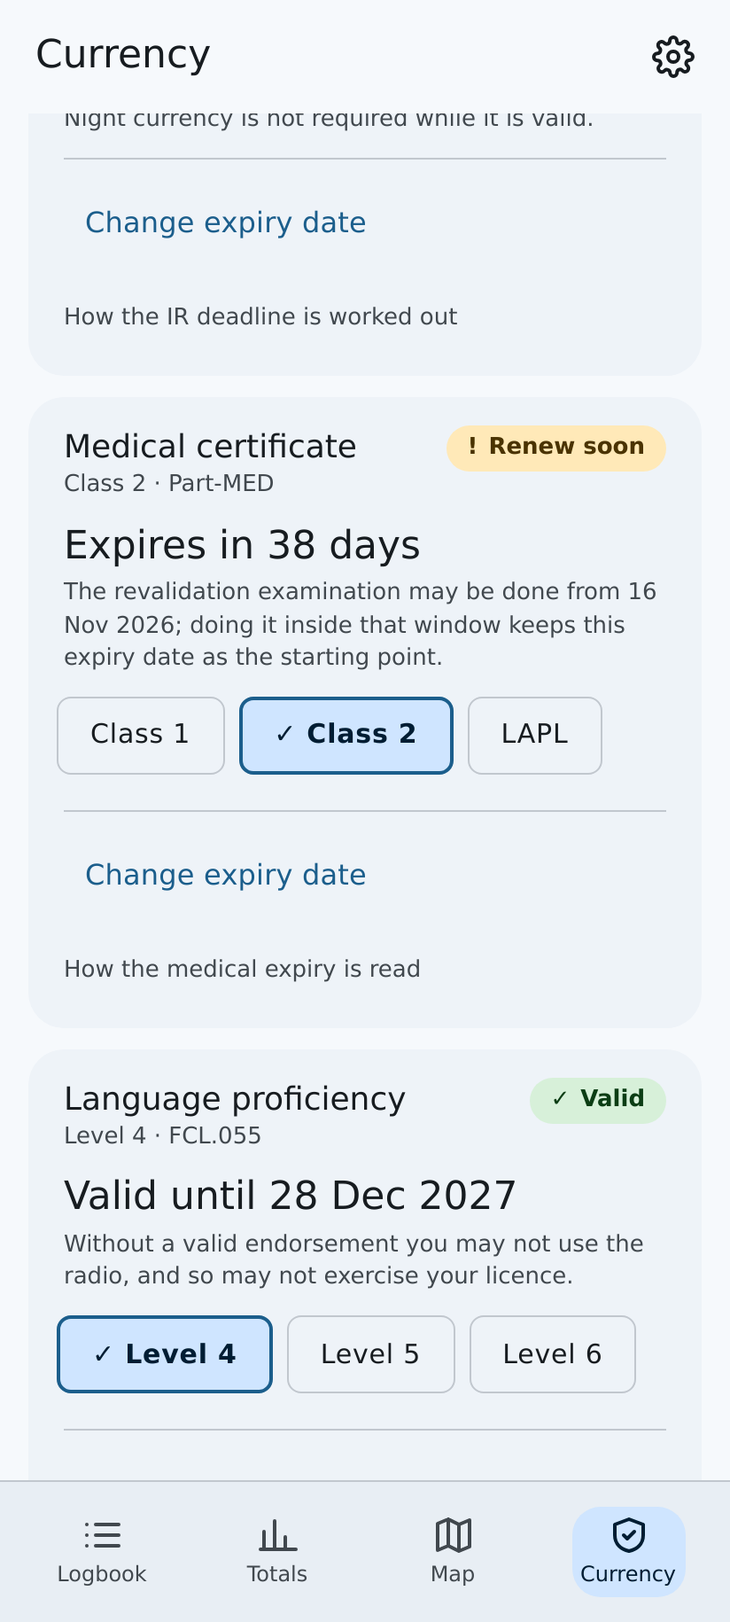
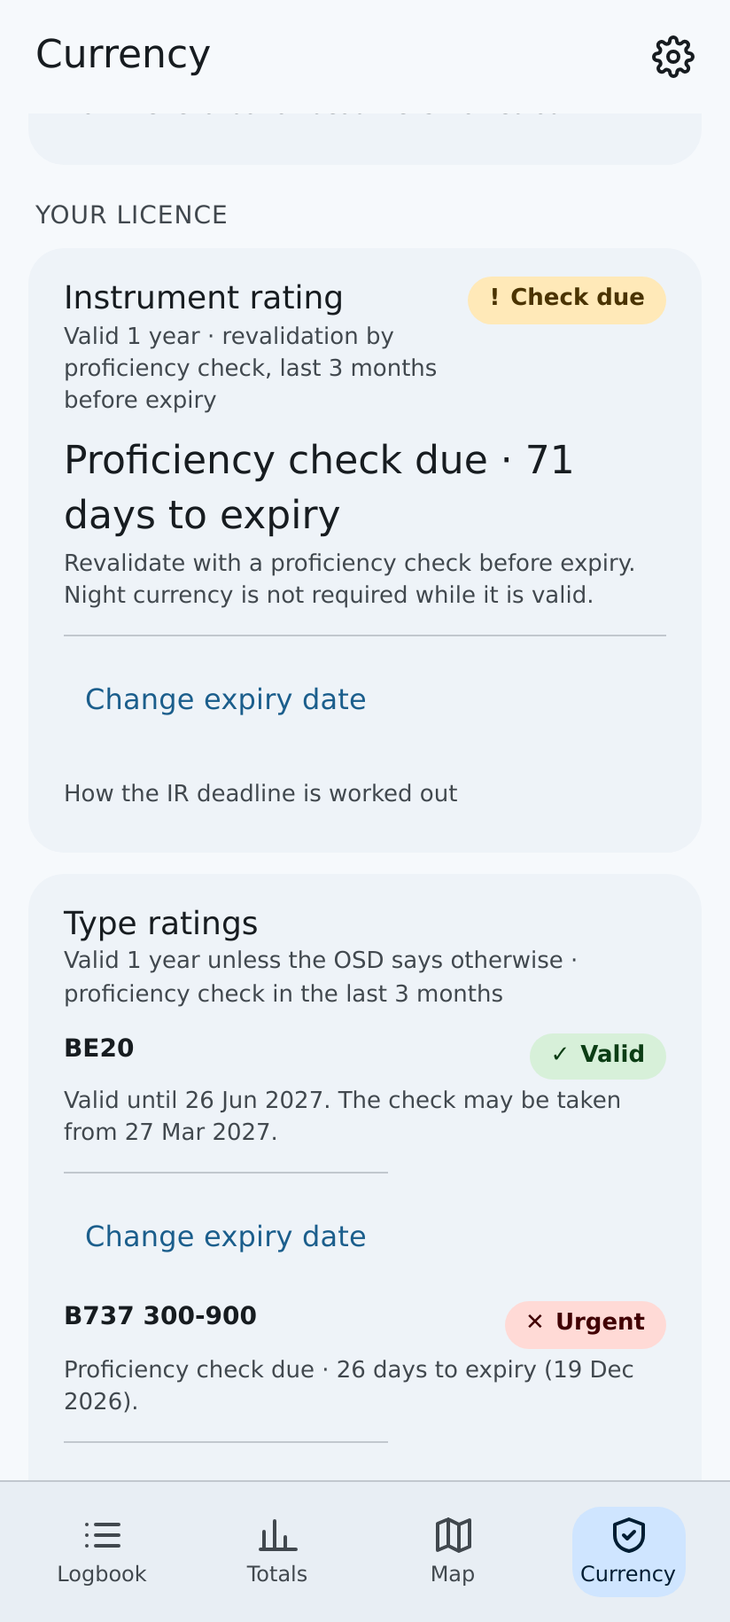
Track type ratings, the last rating the app showed nothing for
Selecting the Other class used to say "Revalidation is not tracked for the Other
class", which was the whole story for anyone type-rated. Now each type rating is
held as a name and an expiry date, with the same check window as the rest.

FCL.740.A(a) covers "multi-engine class ratings and type ratings" in one breath,
so the revalidation rule is the one already implemented for MEP and goes through
the same checkWindowStatus. FCL.740(a)(1) makes a type rating valid for 1 year
"unless otherwise determined in the OSD", which for many types it is -- so the
app never computes the date, it only reads the one from your licence, and the
card says why.

A list rather than another class, because a pilot may hold several at once and
each expires on its own date. They live under "Your licence" with the IR, the
medical and the language endorsement; the Other class now points there instead of
dead-ending.

Route sectors (FCL.740.A(a)(2)) are deliberately not counted, where they are for
MEP. The logbook records a make and model per flight, not which type rating they
fall under, and one rating can cover several models, so counting would mean
guessing which flights belong to which rating. The requirement is stated on the
card with the commercial-operator exemption in (a)(3), and a test asserts the
difference from MEP stays visible rather than quietly converging.

Alerts key each rating by id, so renaming one does not read as a new rating and
re-fire.
[…]

diff --git a/src/features/currency/CurrencyScreen.tsx b/src/features/currency/CurrencyScreen.tsx
@@ -1,9 +1,10 @@
 import { useMemo, useState, type ReactNode } from 'react';
 import { useApp } from '../../AppContext';
-import { CLASS_RATINGS, CLASS_RATING_LABELS, MEDICAL_CLASS_LABELS, type ClassRating, type IsoDate, type MedicalClass } from '../../domain/types';
-import { type ProficiencyCheck, type RollingCheck, type RollingCurrency, type SepCheck, type ValidityCheck, classExpiryOf, classExpiryPatch, irStatus, isExperienceClass, languageStatus, medicalStatus, nightCurrency, nightExemptByIr, routeSectors, passengerCurrency, proficiencyCheckStatus, sepRevalidation } from '../../domain/currency';
+import { CLASS_RATINGS, CLASS_RATING_LABELS, MEDICAL_CLASS_LABELS, type ClassRating, type IsoDate, type MedicalClass, type TypeRating } from '../../domain/types';
+import { type ProficiencyCheck, type RollingCheck, type RollingCurrency, type SepCheck, type ValidityCheck, classExpiryOf, classExpiryPatch, irStatus, isExperienceClass, languageStatus, medicalStatus, nightCurrency, nightExemptByIr, routeSectors, passengerCurrency, proficiencyCheckStatus, sepRevalidation, typeRatingStatus } from '../../domain/currency';
 import { DEFAULT_RULES, type RenewalRule, type RollingRule, type RuleSource } from '../../domain/rules';
 import { addDays, formatHHMM, isValidIsoDate, utcDateOf } from '../../domain/time';
+import { uuid } from '../../domain/id';
 import { Bar, Field, StatusPill } from '../../ui/components';
 import { formatShortDate } from '../flights/format';
 
@@ -91,8 +92,8 @@ function RenewalSteps({ rule = DEFAULT_RULES.renewal }: { rule?: RenewalRule }) 
 }
 
 /** Edit a rating's expiry date. `onSave(null)` clears it. */
-function ExpiryEditor({ id, current, forceOpen, onSave, label = 'Rating expiry date' }: {
-  id: string; current: string; forceOpen: boolean; label?: string;
+function ExpiryEditor({ id, current, forceOpen, onSave, label = 'Rating expiry date', removeLabel = 'Remove date' }: {
+  id: string; current: string; forceOpen: boolean; label?: string; removeLabel?: string;
   onSave: (date: IsoDate | null) => Promise<unknown>;
 }) {
   const { canEdit } = useApp();
@@ -114,7 +115,7 @@ function ExpiryEditor({ id, current, forceOpen, onSave, label = 'Rating expiry d
           <div className="row">
             <button type="button" className="btn tonal" onClick={() => void save()}>Save date</button>
             {editing && <button type="button" className="btn text" onClick={() => setEditing(false)}>Cancel</button>}
-            {current !== '' && <button type="button" className="btn text" onClick={() => { setDraft(''); void onSave(null).then(() => setEditing(false)); }}>Remove date</button>}
+            {current !== '' && <button type="button" className="btn text" onClick={() => { setDraft(''); void onSave(null).then(() => setEditing(false)); }}>{removeLabel}</button>}
           </div>
         </div>
       ) : (
@@ -351,6 +352,78 @@ function LanguageCard({ today }: { today: IsoDate }) {
   );
 }
 
+/**
+ * Type ratings. A list, not a single card: a pilot may hold several at once and each expires on its own
+ * date. Flights in a type-rated aeroplane are logged under the OTHER class, which is why nothing here
+ * is driven by the class chips.
+ */
+function TypeRatingsCard({ today }: { today: IsoDate }) {
+  const { data, canEdit, updateSettings } = useApp();
+  const ratings = data.settings.typeRatings ?? [];
+  const [adding, setAdding] = useState(false);
+  const [name, setName] = useState('');
+  const [date, setDate] = useState('');
+  if (ratings.length === 0 && !canEdit) return null;
+
+  const save = (next: TypeRating[]) => updateSettings({ typeRatings: next });
+  const add = async () => {
+    if (name.trim() === '' || !isValidIsoDate(date)) return;
+    await save([...ratings, { id: uuid(), name: name.trim(), expiry: date }]);
+    setName(''); setDate(''); setAdding(false);
+  };
+
+  return (
+    <div className="card cur-card">
+      <div className="head"><div><h3>Type ratings</h3><div className="hint">Valid 1 year unless the OSD says otherwise · proficiency check in the last 3 months</div></div></div>
+      {ratings.length === 0 && <div className="hint">None added. Add one for each type rating on your licence.</div>}
+      {ratings.map((t) => {
+        const c = typeRatingStatus(t.expiry, today);
+        const days = c.daysToExpiry ?? 0;
+        const label = { green: 'Valid', amber: 'Check due', red: c.state === 'expired' ? 'Expired' : 'Urgent', unknown: 'Not set' }[c.status];
+        return (
+          <div key={t.id} className="progress-row">
+            <div className="line">
+              <span><strong>{t.name}</strong></span>
+              <StatusPill status={c.status} label={label} />
+            </div>
+            <div className="hint">
+              {c.state === 'expired' ? `Expired on ${formatShortDate(t.expiry)} — it has to be renewed.`
+                : c.state === 'window-not-open' ? `Valid until ${formatShortDate(t.expiry)}. The check may be taken from ${c.windowStart ? formatShortDate(c.windowStart) : ''}.`
+                : `Proficiency check due · ${days} day${days === 1 ? '' : 's'} to expiry (${formatShortDate(t.expiry)}).`}
+            </div>
+            {canEdit && (
+              <div className="row">
+                {/* clearing a type rating's date removes the rating itself, so the button has to say so */}
+                <ExpiryEditor id={`expiry-type-${t.id}`} label={`${t.name} expiry date`} removeLabel="Remove rating" forceOpen={false} current={t.expiry}
+                  onSave={(d) => (d === null
+                    ? save(ratings.filter((r) => r.id !== t.id))
+                    : save(ratings.map((r) => (r.id === t.id ? { ...r, expiry: d } : r))))} />
+              </div>
+            )}
+          </div>
+        );
+      })}
+      {canEdit && (adding ? (
+        <div className="sub-form">
+          <Field label="Type rating, as written on your licence" htmlFor="type-name">
+            <input id="type-name" className="input" value={name} onChange={(e) => setName(e.target.value)} placeholder="B737 300-900" autoComplete="off" />
+          </Field>
+          <Field label="Expiry date" htmlFor="type-date">
+            <input id="type-date" className="input" type="date" value={date} onChange={(e) => setDate(e.target.value)} />
+          </Field>
+          <div className="row">
+            <button type="button" className="btn tonal" onClick={() => void add()}>Add</button>
+            <button type="button" className="btn text" onClick={() => { setAdding(false); setName(''); setDate(''); }}>Cancel</button>
+          </div>
+        </div>
+      ) : (
+        <div className="sub-form"><button type="button" className="btn text" onClick={() => setAdding(true)}>Add a type rating</button></div>
+      ))}
+      <RulesNote rule={DEFAULT_RULES.typeRating} title="How a type rating deadline is worked out" />
+    </div>
+  );
+}
+
 export function CurrencyScreen() {
   const { data } = useApp();
   const today: IsoDate = utcDateOf(Date.now());
@@ -379,12 +452,13 @@ export function CurrencyScreen() {
       <RollingCard title="Carrying passengers" subtitle={`${CLASS_RATING_LABELS[cls]} · ${rollingSubtitle(DEFAULT_RULES.passenger)}`} check={passengers} rule={DEFAULT_RULES.passenger} />
       <RollingCard title="Passengers at night" subtitle={`${CLASS_RATING_LABELS[cls]} · ${rollingSubtitle(DEFAULT_RULES.night, 'night ')}`} check={night} rule={DEFAULT_RULES.night} exemptUntil={nightExempt} />
       {isExperienceClass(cls) ? <ExperienceCard cls={cls} check={experience} />
-        : cls === 'OTHER' ? <p className="hint" style={{ margin: '0 4px 12px' }}>Revalidation is not tracked for the Other class.</p>
+        : cls === 'OTHER' ? <p className="hint" style={{ margin: '0 4px 12px' }}>Flights in a type-rated aeroplane are logged here. The ratings themselves are tracked under <strong>Your licence</strong> below, because one pilot may hold several.</p>
         : <CheckCard cls={cls} check={check} />}
 
       {/* Not class ratings: held once, and they apply whatever you are flying. */}
       <h2 className="section-label">Your licence</h2>
       <IrCard today={today} />
+      <TypeRatingsCard today={today} />
       <MedicalCard today={today} />
       <LanguageCard today={today} />
     </div>

diff --git a/src/db/importer.ts b/src/db/importer.ts
@@ -2,7 +2,7 @@ import type { LogbookDB } from './db';
 import type { ConflictPolicy, ImportPlan } from '../domain/importPlan';
 import type { FlightImport, ImportBundle } from '../domain/records';
 import { aircraftFromFlight, toFlightImports } from '../domain/records';
-import type { Aircraft, Attachment, ClassRating, Flight, IsoDate, MedicalClass, Person, Settings } from '../domain/types';
+import type { Aircraft, Attachment, ClassRating, Flight, IsoDate, MedicalClass, Person, Settings, TypeRating } from '../domain/types';
 import { personKey } from '../domain/suggestions';
 import { uuid } from '../domain/id';
 import { type Snapshot, base64ToBytes, snapshotToBundle } from '../domain/snapshot';
@@ -15,7 +15,7 @@ export async function readBundle(db: LogbookDB): Promise<ImportBundle> {
 
 export interface ImportExtras {
   attachments?: Attachment[];
-  settings?: { pilotName?: string; licenceNumber?: string; address?: string; sepLandExpiry?: string | null; classExpiry?: Partial<Record<ClassRating, IsoDate>>; irExpiry?: IsoDate | null; medicalClass?: MedicalClass | null; medicalExpiry?: IsoDate | null; languageLevel?: 4 | 5 | 6 | null; languageExpiry?: IsoDate | null };
+  settings?: { pilotName?: string; licenceNumber?: string; address?: string; sepLandExpiry?: string | null; classExpiry?: Partial<Record<ClassRating, IsoDate>>; irExpiry?: IsoDate | null; medicalClass?: MedicalClass | null; medicalExpiry?: IsoDate | null; languageLevel?: 4 | 5 | 6 | null; languageExpiry?: IsoDate | null; typeRatings?: TypeRating[] };
 }
 
 export interface ImportResult {
@@ -80,6 +80,7 @@ export async function applyImport(db: LogbookDB, plan: ImportPlan, policy: Confl
         if (extras.settings.medicalExpiry && !cur.medicalExpiry) { patch.medicalExpiry = extras.settings.medicalExpiry; patch.medicalClass = extras.settings.medicalClass ?? null; result.settingsApplied.push('medicalExpiry'); }
         if (extras.settings.languageExpiry && !cur.languageExpiry) { patch.languageExpiry = extras.settings.languageExpiry; result.settingsApplied.push('languageExpiry'); }
         if (extras.settings.languageLevel && !cur.languageLevel) { patch.languageLevel = extras.settings.languageLevel; result.settingsApplied.push('languageLevel'); }
+        if (extras.settings.typeRatings?.length && !cur.typeRatings?.length) { patch.typeRatings = extras.settings.typeRatings; result.settingsApplied.push('typeRatings'); }
         const missing = Object.entries(extras.settings.classExpiry ?? {}).filter(([k, v]) => v && !cur.classExpiry?.[k as ClassRating]);
         if (missing.length > 0) { patch.classExpiry = { ...(cur.classExpiry ?? {}), ...Object.fromEntries(missing) }; result.settingsApplied.push('classExpiry'); }
         if (Object.keys(patch).length > 0) await db.settings.put({ ...cur, ...patch });
@@ -114,7 +115,7 @@ export async function applyReplace(db: LogbookDB, snapshot: Snapshot): Promise<{
     await db.previousExperience.bulkAdd(snapshot.previousExperience);
     await db.attachments.bulkAdd(snapshot.attachments.map((a) => ({ id: a.id, flightId: a.flightId, mime: a.mime, name: a.name, createdAt: a.createdAt, updatedAt: a.updatedAt, blob: new Blob([base64ToBytes(a.data) as BlobPart], { type: a.mime }) })));
     const cur = await db.settings.get('main');
-    if (cur) await db.settings.put({ ...cur, pilotName: snapshot.settings.pilotName ?? cur.pilotName, licenceNumber: snapshot.settings.licenceNumber ?? cur.licenceNumber, address: snapshot.settings.address ?? cur.address, sepLandExpiry: snapshot.settings.sepLandExpiry ?? null, classExpiry: snapshot.settings.classExpiry ?? {}, irExpiry: snapshot.settings.irExpiry ?? null, medicalClass: snapshot.settings.medicalClass ?? null, medicalExpiry: snapshot.settings.medicalExpiry ?? null, languageLevel: snapshot.settings.languageLevel ?? null, languageExpiry: snapshot.settings.languageExpiry ?? null });
+    if (cur) await db.settings.put({ ...cur, pilotName: snapshot.settings.pilotName ?? cur.pilotName, licenceNumber: snapshot.settings.licenceNumber ?? cur.licenceNumber, address: snapshot.settings.address ?? cur.address, sepLandExpiry: snapshot.settings.sepLandExpiry ?? null, classExpiry: snapshot.settings.classExpiry ?? {}, irExpiry: snapshot.settings.irExpiry ?? null, medicalClass: snapshot.settings.medicalClass ?? null, medicalExpiry: snapshot.settings.medicalExpiry ?? null, languageLevel: snapshot.settings.languageLevel ?? null, languageExpiry: snapshot.settings.languageExpiry ?? null, typeRatings: snapshot.settings.typeRatings ?? [] });
     return { flights: bundle.flights.length, fstd: bundle.fstd.length, experience: bundle.experience.length };
   });
 }

diff --git a/src/domain/alerts.ts b/src/domain/alerts.ts
@@ -1,6 +1,6 @@
-import type { AlertLevel, ClassRating, Flight, IsoDate } from './types';
+import type { AlertLevel, ClassRating, Flight, IsoDate, TypeRating } from './types';
 import { CLASS_RATINGS, CLASS_RATING_LABELS } from './types';
-import { classExpiryOf, irStatus, isExperienceClass, languageStatus, medicalStatus, nightCurrency, nightExemptByIr, passengerCurrency, proficiencyCheckStatus, sepRevalidation, type RollingCheck } from './currency';
+import { classExpiryOf, irStatus, isExperienceClass, languageStatus, medicalStatus, nightCurrency, nightExemptByIr, passengerCurrency, proficiencyCheckStatus, sepRevalidation, typeRatingStatus, type RollingCheck } from './currency';
 import { DEFAULT_RULES, type Rules } from './rules';
 import { formatShortDate } from '../features/flights/format';
 
@@ -27,6 +27,7 @@ export interface AlertSettings {
   medicalExpiry?: IsoDate | null;
   languageLevel?: 4 | 5 | 6 | null;
   languageExpiry?: IsoDate | null;
+  typeRatings?: TypeRating[];
   alerts?: { enabled: boolean; night: boolean };
 }
 
@@ -73,6 +74,18 @@ function irItem(expiry: IsoDate, today: IsoDate, rules: Rules): AlertItem {
   if (c.state === 'urgent') return { key, level: 'red', title: `Instrument rating: ${plural(days, 'day')} left`, body: `Book the proficiency check with an examiner now. Expires ${date}.` };
   if (c.state === 'window-open') return { key, level: 'amber', title: 'Instrument rating: check due', body: `The check window is open; the rating expires in ${plural(days, 'day')} (${date}).` };
   return { key, level: 'green', title: 'Instrument rating ok', body: `Valid until ${date}.` };
+}
+
+/** One type rating. Keyed by its id, so renaming it does not look like a different rating. */
+function typeRatingItem(t: TypeRating, today: IsoDate, rules: Rules): AlertItem {
+  const key = `TYPE:${t.id}`;
+  const date = formatShortDate(t.expiry);
+  const c = typeRatingStatus(t.expiry, today, rules);
+  const days = c.daysToExpiry ?? 0;
+  if (c.state === 'expired') return { key, level: 'expired', title: `${t.name} type rating expired`, body: `Expired on ${date}. It has to be renewed.` };
+  if (c.state === 'urgent') return { key, level: 'red', title: `${t.name}: ${plural(days, 'day')} left`, body: `Book the proficiency check now. Expires ${date}.` };
+  if (c.state === 'window-open') return { key, level: 'amber', title: `${t.name}: proficiency check due`, body: `The check window is open; the rating expires in ${plural(days, 'day')} (${date}).` };
+  return { key, level: 'green', title: `${t.name} type rating ok`, body: `Valid until ${date}.` };
 }
 
 /**
@@ -122,6 +135,7 @@ export function watchedItems(flights: Flight[], settings: AlertSettings, today: 
     if (expiry) items.push(ratingItem(cls, flights, expiry, today, rules));
   }
   if (settings.irExpiry) items.push(irItem(settings.irExpiry, today, rules));
+  for (const t of settings.typeRatings ?? []) items.push(typeRatingItem(t, today, rules));
   items.push(...licenceItems(settings, today, rules));
   return items;
 }

diff --git a/src/domain/rules.ts b/src/domain/rules.ts
@@ -171,6 +171,23 @@ export const IR_RENEWAL: RenewalRule = {
 };
 
 /**
+ * Type ratings. FCL.740.A(a) covers "multi-engine class ratings AND type ratings" in one breath, so the
+ * revalidation rule is the one already used for MEP; only the validity period and the route-sector
+ * counting differ in what the app can do about them.
+ */
+export const TYPE_RATING: ProficiencyRule = {
+  windowMonths: 3,
+  reference: 'Part-FCL FCL.740.A(a)(1): pass a proficiency check in accordance with Appendix 9, or complete an EBT practical assessment in accordance with Appendix 10, in the relevant type of aeroplane or an FSTD representing it, within the 3 months immediately preceding the expiry date. FCL.740(a)(1): a type rating is valid for 1 year unless the operational suitability data says otherwise.',
+  verified: true,
+  todo: [
+    'Validity is 1 year "unless otherwise determined in the OSD" (FCL.740(a)(1)), and for many types the OSD does determine otherwise. Enter the expiry date from your licence; the app never works it out.',
+    'Limit: FCL.740.A(a)(2) also asks for 10 route sectors in the type during the validity period, or 1 flown with an examiner. The app does not count them: the logbook records a make and model per flight, not which type rating they fall under, and one rating can cover several models. The counter shown for MEP is not shown here for that reason.',
+    'A pilot flying for a commercial air transport operator who passes the operator proficiency check combined with the revalidation check is exempt from the route sectors (FCL.740.A(a)(3)).',
+    'If you fail a section of the check before expiry you may not use the rating until you have passed it (FCL.740.A(c)). An expired type rating is renewed under FCL.740(b), the same steps as a class rating.',
+  ],
+};
+
+/**
  * Medical certificate (Annex IV, Part-MED). The app stores the expiry date printed on the certificate
  * and never computes it: the validity period depends on the class and on your age, and the age bands
  * have edges the app could not get right without knowing your date of birth, which it deliberately
@@ -264,6 +281,7 @@ export interface Rules {
   sep: SepRule;
   ir: ProficiencyRule;
   irRenewal: RenewalRule;
+  typeRating: ProficiencyRule;
   medical: MedicalRule;
   language: LanguageRule;
   proficiencyCheck: ProficiencyRule;
@@ -278,6 +296,7 @@ export const DEFAULT_RULES: Rules = {
   sep: SEP_REVALIDATION,
   ir: IR_REVALIDATION,
   irRenewal: IR_RENEWAL,
+  typeRating: TYPE_RATING,
   medical: MEDICAL,
   language: LANGUAGE_PROFICIENCY,
   proficiencyCheck: PROFICIENCY_CHECK_REVALIDATION,

diff --git a/src/App.tsx b/src/App.tsx
@@ -101,7 +101,7 @@ export function App() {
       flights: newestFirst(viewerRecords?.flights ?? []),
       aircraft: viewerSnap?.aircraft ?? [], persons: viewerSnap?.persons ?? [],
       fstd: viewerRecords?.fstd ?? [], previousExperience: viewerRecords?.experience ?? [],
-      settings: { ...local.settings, pilotName: viewerSnap?.settings.pilotName ?? local.settings.pilotName, licenceNumber: viewerSnap?.settings.licenceNumber ?? local.settings.licenceNumber, address: viewerSnap?.settings.address ?? local.settings.address, sepLandExpiry: viewerSnap ? viewerSnap.settings.sepLandExpiry ?? null : local.settings.sepLandExpiry, classExpiry: viewerSnap ? viewerSnap.settings.classExpiry ?? {} : local.settings.classExpiry, irExpiry: viewerSnap ? viewerSnap.settings.irExpiry ?? null : local.settings.irExpiry, medicalClass: viewerSnap ? viewerSnap.settings.medicalClass ?? null : local.settings.medicalClass, medicalExpiry: viewerSnap ? viewerSnap.settings.medicalExpiry ?? null : local.settings.medicalExpiry, languageLevel: viewerSnap ? viewerSnap.settings.languageLevel ?? null : local.settings.languageLevel, languageExpiry: viewerSnap ? viewerSnap.settings.languageExpiry ?? null : local.settings.languageExpiry },
+      settings: { ...local.settings, pilotName: viewerSnap?.settings.pilotName ?? local.settings.pilotName, licenceNumber: viewerSnap?.settings.licenceNumber ?? local.settings.licenceNumber, address: viewerSnap?.settings.address ?? local.settings.address, sepLandExpiry: viewerSnap ? viewerSnap.settings.sepLandExpiry ?? null : local.settings.sepLandExpiry, classExpiry: viewerSnap ? viewerSnap.settings.classExpiry ?? {} : local.settings.classExpiry, irExpiry: viewerSnap ? viewerSnap.settings.irExpiry ?? null : local.settings.irExpiry, medicalClass: viewerSnap ? viewerSnap.settings.medicalClass ?? null : local.settings.medicalClass, medicalExpiry: viewerSnap ? viewerSnap.settings.medicalExpiry ?? null : local.settings.medicalExpiry, languageLevel: viewerSnap ? viewerSnap.settings.languageLevel ?? null : local.settings.languageLevel, languageExpiry: viewerSnap ? viewerSnap.settings.languageExpiry ?? null : local.settings.languageExpiry, typeRatings: viewerSnap ? viewerSnap.settings.typeRatings ?? [] : local.settings.typeRatings },
     };
   }, [local, viewerRecords, viewerSnap]);
 

diff --git a/src/domain/currency.test.ts b/src/domain/currency.test.ts
@@ -1,5 +1,5 @@
 import { describe, expect, it } from 'vitest';
-import { classExpiryOf, classExpiryPatch, collectEvents, irStatus, languageStatus, medicalStatus, nightCurrency, nightExemptByIr, passengerCurrency, proficiencyCheckStatus, rolling, routeSectors, sepRevalidation } from './currency';
+import { classExpiryOf, classExpiryPatch, collectEvents, irStatus, languageStatus, medicalStatus, nightCurrency, nightExemptByIr, passengerCurrency, proficiencyCheckStatus, rolling, routeSectors, sepRevalidation, typeRatingStatus } from './currency';
 import { DEFAULT_RULES } from './rules';
 import { flight } from './testFactories';
 import { addDays } from './time';
@@ -285,5 +285,19 @@ describe('language proficiency (FCL.055)', () => {
   });
   it('is not-set without a level or a date', () => {
     expect(languageStatus(null, null, '2026-01-01')).toMatchObject({ state: 'not-set' });
+  });
+});
+
+describe('type ratings (FCL.740.A(a))', () => {
+  const expiry = '2026-03-31';
+  it('uses the same 3-month check window as a multi-engine class rating', () => {
+    expect(typeRatingStatus(expiry, '2026-01-01')).toEqual(proficiencyCheckStatus(expiry, '2026-01-01'));
+    expect(typeRatingStatus(expiry, '2025-12-31')).toMatchObject({ state: 'window-not-open', windowStart: '2026-01-01' });
+    expect(typeRatingStatus(expiry, '2026-04-01')).toMatchObject({ status: 'red', state: 'expired' });
+  });
+  it('says plainly that route sectors are not counted for a type rating', () => {
+    expect(DEFAULT_RULES.typeRating.todo.join(' ')).toMatch(/does not count them/i);
+    // ...whereas they are counted for MEP, and that difference must stay visible
+    expect(routeSectors([], 'MEP_LAND', expiry, '2026-01-01')).not.toBeNull();
   });
 });

diff --git a/src/domain/alerts.test.ts b/src/domain/alerts.test.ts
@@ -92,3 +92,23 @@ describe('licence documents in the alerts', () => {
     expect(watchedItems([], { languageLevel: 4, languageExpiry: '2025-06-01' }, today).map((i) => i.key)).toContain('LANGUAGE');
   });
 });
+
+describe('type ratings in the alerts', () => {
+  const t = (id: string, name: string, expiry: string) => ({ id, name, expiry });
+  it('watches one item per rating, keyed by id so a rename is not a new rating', () => {
+    const items = watchedItems([], { typeRatings: [t('a', 'B737 300-900', '2025-08-15'), t('b', 'BE20', '2027-01-01')] }, today);
+    expect(items.map((i) => i.key)).toEqual(expect.arrayContaining(['TYPE:a', 'TYPE:b']));
+    expect(items.find((i) => i.key === 'TYPE:a')!.level).toBe('amber');
+    expect(items.find((i) => i.key === 'TYPE:b')!.level).toBe('green');
+    const renamed = watchedItems([], { typeRatings: [t('a', 'Boeing 737', '2025-08-15')] }, today);
+    expect(renamed[0]!.key).toBe('TYPE:a'); // same key, so the alert does not re-fire
+  });
+  it('names the rating in the alert, so several are tellable apart', () => {
+    const i = watchedItems([], { typeRatings: [t('a', 'BE20', '2025-06-01')] }, today)[0]!;
+    expect(i.level).toBe('expired');
+    expect(i.title).toContain('BE20');
+  });
+  it('watches nothing when none are held', () => {
+    expect(watchedItems([], { typeRatings: [] }, today).map((i) => i.key)).not.toContain('TYPE:a');
+  });
+});

diff --git a/src/domain/snapshot.ts b/src/domain/snapshot.ts
@@ -1,4 +1,4 @@
-import type { Aircraft, ClassRating, Flight, FstdSession, IsoDate, MedicalClass, Person, PreviousExperience } from './types';
+import type { Aircraft, ClassRating, Flight, FstdSession, IsoDate, MedicalClass, Person, PreviousExperience, TypeRating } from './types';
 import { type FlightImport, type ImportBundle, toFlightImport, validateFlightImport } from './records';
 import { validateExperience } from './experience';
 import { validateFstd } from './fstd';
@@ -33,7 +33,7 @@ export interface Snapshot {
   /** Device that wrote the snapshot (optional: older snapshots do not have it). */
   deviceId?: string;
   deviceName: string;
-  settings: { pilotName?: string; licenceNumber?: string; address?: string; sepLandExpiry?: IsoDate | null; classExpiry?: Partial<Record<ClassRating, IsoDate>>; irExpiry?: IsoDate | null; medicalClass?: MedicalClass | null; medicalExpiry?: IsoDate | null; languageLevel?: 4 | 5 | 6 | null; languageExpiry?: IsoDate | null };
+  settings: { pilotName?: string; licenceNumber?: string; address?: string; sepLandExpiry?: IsoDate | null; classExpiry?: Partial<Record<ClassRating, IsoDate>>; irExpiry?: IsoDate | null; medicalClass?: MedicalClass | null; medicalExpiry?: IsoDate | null; languageLevel?: 4 | 5 | 6 | null; languageExpiry?: IsoDate | null; typeRatings?: TypeRating[] };
   aircraft: Aircraft[];
   persons: Person[];
   flights: Flight[];

diff --git a/src/features/export/backup.ts b/src/features/export/backup.ts
@@ -11,7 +11,7 @@ export async function snapshotFromDb(db: LogbookDB, exportedAt = new Date().toIS
     exportedAt,
     deviceId: settings?.deviceId,
     deviceName: settings?.deviceName ?? '',
-    settings: { pilotName: settings?.pilotName, licenceNumber: settings?.licenceNumber, address: settings?.address, sepLandExpiry: settings?.sepLandExpiry ?? null, classExpiry: settings?.classExpiry, irExpiry: settings?.irExpiry ?? null, medicalClass: settings?.medicalClass ?? null, medicalExpiry: settings?.medicalExpiry ?? null, languageLevel: settings?.languageLevel ?? null, languageExpiry: settings?.languageExpiry ?? null },
+    settings: { pilotName: settings?.pilotName, licenceNumber: settings?.licenceNumber, address: settings?.address, sepLandExpiry: settings?.sepLandExpiry ?? null, classExpiry: settings?.classExpiry, irExpiry: settings?.irExpiry ?? null, medicalClass: settings?.medicalClass ?? null, medicalExpiry: settings?.medicalExpiry ?? null, languageLevel: settings?.languageLevel ?? null, languageExpiry: settings?.languageExpiry ?? null, typeRatings: settings?.typeRatings ?? [] },
     aircraft, persons, flights, fstdSessions, previousExperience,
     attachments: await Promise.all(attachments.map(async ({ blob, ...a }) => ({ ...a, data: bytesToBase64(new Uint8Array(await blob.arrayBuffer())) }))),
   });

diff --git a/src/domain/types.ts b/src/domain/types.ts
@@ -258,6 +258,18 @@ export interface Airport {
 
 export type ThemePreference = 'system' | 'light' | 'dark';
 
+/**
+ * A type rating the pilot holds. Type ratings are not classes: a pilot may hold several at once, and
+ * each has its own expiry, so they are a list rather than another entry in the class table. Flights in
+ * a type-rated aeroplane are logged under the OTHER class.
+ */
+export interface TypeRating {
+  id: Uuid;
+  /** As written on the licence, e.g. "B737 300-900" or "BE20". */
+  name: string;
+  expiry: IsoDate;
+}
+
 /** Medical certificate class (Part-MED). */
 export type MedicalClass = 'CLASS1' | 'CLASS2' | 'LAPL';
 export const MEDICAL_CLASS_LABELS: Record<MedicalClass, string> = {
@@ -303,6 +315,8 @@ export interface Settings {
   /** Language proficiency endorsement (FCL.055): the level, and the expiry unless the level is 6. */
   languageLevel?: 4 | 5 | 6 | null;
   languageExpiry?: IsoDate | null;
+  /** Type ratings held, each with its own expiry date (FCL.740(a)(1): valid 1 year). */
+  typeRatings?: TypeRating[];
   /** Device-local: notify when a currency or class rating gets worse. `night` includes night currency. */
   alerts?: { enabled: boolean; night: boolean };
   /** Device-local: the levels last seen by the alert check, so only a change for the worse notifies. */

diff --git a/src/domain/currency.ts b/src/domain/currency.ts
@@ -184,6 +184,11 @@ export function proficiencyCheckStatus(expiry: IsoDate | null | undefined, today
 
 // ---------- instrument rating ----------
 
+/** Status of one type rating (FCL.740.A(a)(1)): the same check window as a multi-engine class rating. */
+export function typeRatingStatus(expiry: IsoDate | null | undefined, today: IsoDate, rules: Rules = DEFAULT_RULES): ProficiencyCheck {
+  return checkWindowStatus(expiry, today, rules.typeRating.windowMonths, rules.app.proficiencyCheckRedDaysLeft);
+}
+
 /** Status of the instrument rating itself (FCL.625): valid 1 year, check in the last 3 months. */
 export function irStatus(expiry: IsoDate | null | undefined, today: IsoDate, rules: Rules = DEFAULT_RULES): ProficiencyCheck {
   return checkWindowStatus(expiry, today, rules.ir.windowMonths, rules.app.proficiencyCheckRedDaysLeft);

diff --git a/src/db/repository.ts b/src/db/repository.ts
@@ -113,7 +113,7 @@ export class DexieRepository implements WritableLogbookRepository {
     const next = { ...(await this.getSettings()), ...patch };
     await this.db.settings.put(next);
     if ('pilotName' in patch || 'licenceNumber' in patch || 'address' in patch || 'sepLandExpiry' in patch || 'classExpiry' in patch || 'irExpiry' in patch
-      || 'medicalClass' in patch || 'medicalExpiry' in patch || 'languageLevel' in patch || 'languageExpiry' in patch) this.onWrite?.();
+      || 'medicalClass' in patch || 'medicalExpiry' in patch || 'languageLevel' in patch || 'languageExpiry' in patch || 'typeRatings' in patch) this.onWrite?.();
     return next;
   }
 
